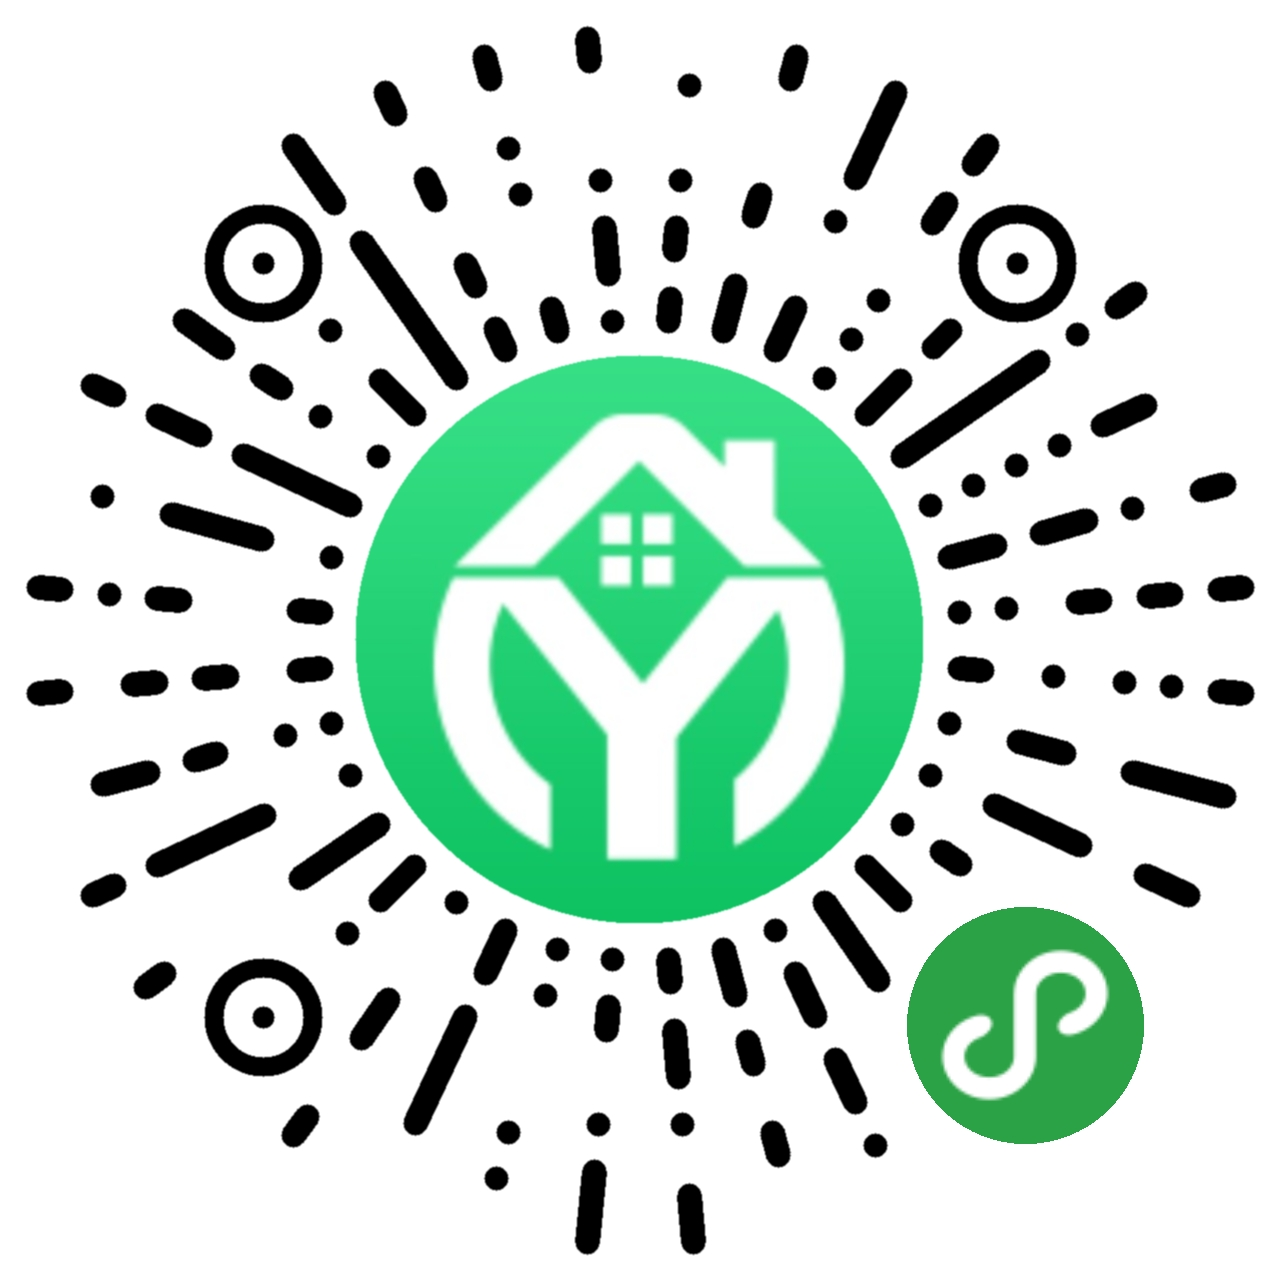
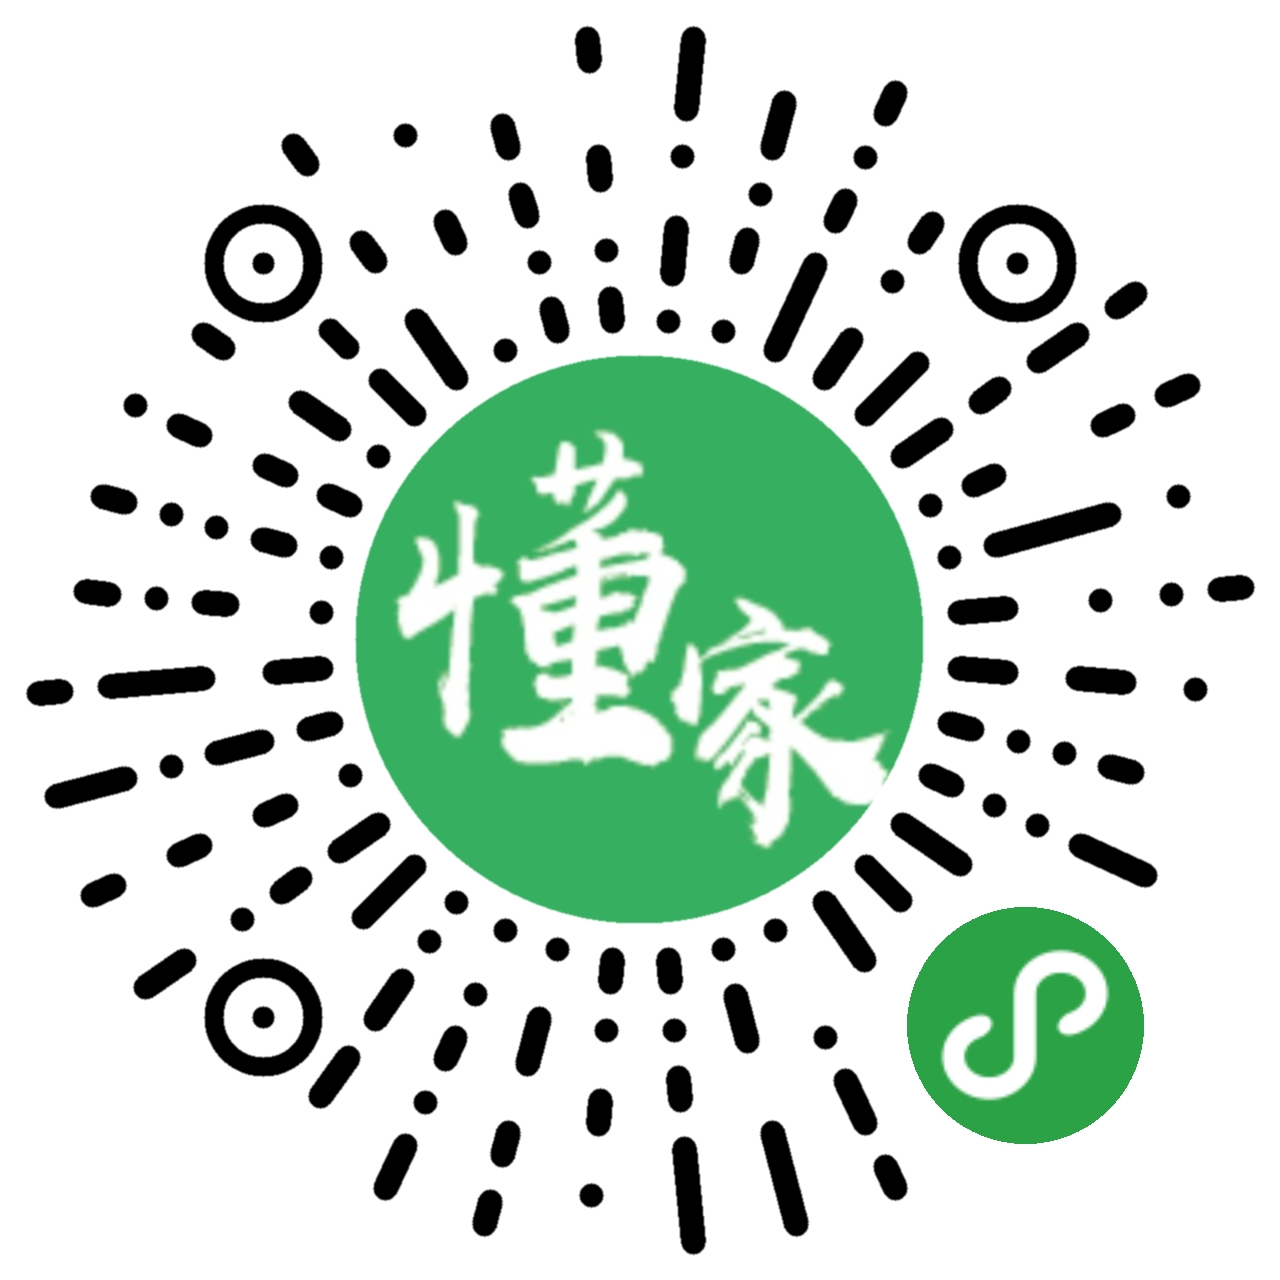
更改案例

diff --git a/index.html b/index.html
@@ -126,13 +126,13 @@
                 <ul class="index__cooperation--list clearfix">
                     <li class="items">
                             <div class="detail">
-                                <img src="./img/index__jc.png" alt="一美一物家具城：互联网家具商城" width="353" height="150">
+                                <img src="./img/index__jc.png" alt="懂家家具城：互联网家具商城" width="353" height="150">
                                 <div class="showMore">
-                                    <p><img src="./img/shop__ymyw__small.jpg" alt="一美一物家具城：互联网家具商城" width="42"
-                                            height="42">一美一物家具城</p>
+                                    <p><img src="./img/shop__ymyw__small.jpg" alt="懂家家具城：互联网家具商城" width="42"
+                                            height="42">懂家家具城</p>
                                     <p>互联网家具商城</p>
                                     <p>
-                                        一美一物，成立于2019年，结合当地建材商家，采取线上销售，线下服务，致力于为装修行业提供便捷的供应平台以及一站式主材包采购服务。</p>
+                                        懂家，成立于2019年，结合当地建材商家，采取线上销售，线下服务，致力于为装修行业提供便捷的供应平台以及一站式主材包采购服务。</p>
                                 </div>
                             </div>
                         </a>

diff --git a/eshop.html b/eshop.html
@@ -228,8 +228,8 @@
                         </a>
                     </li>
                     <li>
-                            <img src="./img/processing__bsc.png" alt="一美一物" width="80" height="80">
-                            <p>一美一物</p>
+                            <img src="./img/processing__bsc.png" alt="懂家" width="80" height="80">
+                            <p>懂家</p>
                         </a>
                     </li>
                 </ul>
